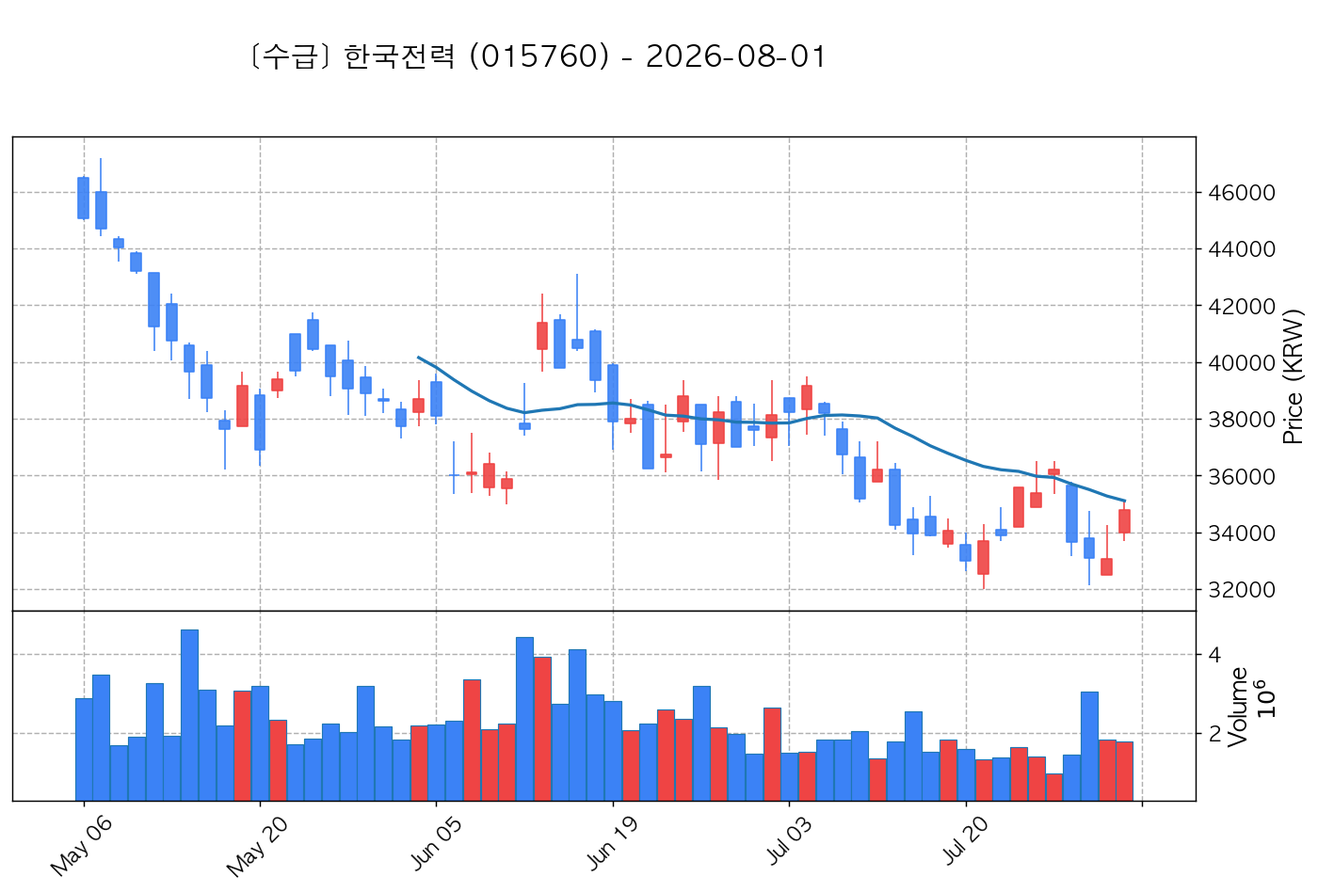
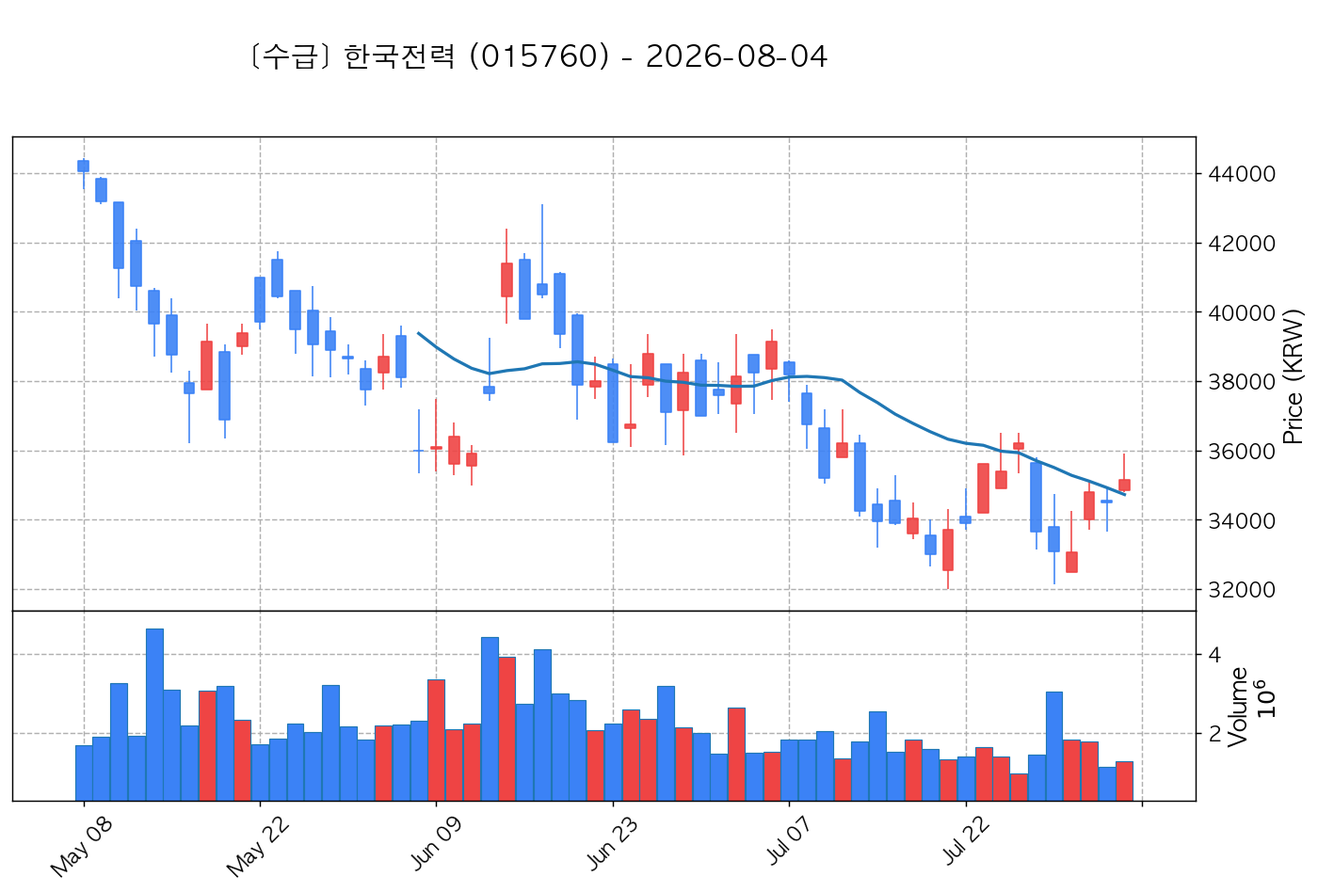
auto: 2026-08-04 스크리닝 보고서 및 차트 업데이트 (안전성 강화)

diff --git a/index.html b/index.html
@@ -591,9 +591,9 @@
     <div style="background: linear-gradient(135deg, #ecfdf5 0%, #f0fdf4 100%); border: 1px solid #a7f3d0; border-radius: 16px; padding: 1.5rem; margin-bottom: 1.5rem; box-shadow: 0 8px 24px rgba(16, 185, 129, 0.06);">
         <div style="display: flex; justify-content: space-between; align-items: center; margin-bottom: 1.2rem; flex-wrap: wrap; gap: 0.5rem;">
             <h3 style="font-size: 1.15rem; font-weight: 700; color: #047857; display: flex; align-items: center; gap: 0.5rem; margin: 0; border: none; padding: 0;">
-                📈 [실전플랜 1] 차일 추천 매매 종목 <span style="font-size: 0.8rem; background: #d1fae5; color: #065f46; padding: 0.25rem 0.75rem; border-radius: 50px; font-weight: 600;">최신 종가 스캔</span>
+                📈 [실전플랜 1] 2026-08-04 (진입예정) 추천 매매 종목 <span style="font-size: 0.8rem; background: #d1fae5; color: #065f46; padding: 0.25rem 0.75rem; border-radius: 50px; font-weight: 600;">2026-08-04 종가 스캔</span>
             </h3>
-            <a href="reports/최신_스크리닝.html" style="text-decoration: none; color: #047857; font-size: 0.85rem; font-weight: 700; display: inline-flex; align-items: center; gap: 0.3rem; background: #ffffff; border: 1px solid #a7f3d0; padding: 0.4rem 0.9rem; border-radius: 8px; box-shadow: 0 2px 6px rgba(16, 185, 129, 0.1); transition: all 0.2s;">
+            <a href="reports/2026-08-04_스크리닝.html" style="text-decoration: none; color: #047857; font-size: 0.85rem; font-weight: 700; display: inline-flex; align-items: center; gap: 0.3rem; background: #ffffff; border: 1px solid #a7f3d0; padding: 0.4rem 0.9rem; border-radius: 8px; box-shadow: 0 2px 6px rgba(16, 185, 129, 0.1); transition: all 0.2s;">
                 전체 스크리닝 리포트 보기 &rarr;
             </a>
         </div>
@@ -606,7 +606,7 @@
                     <span style="color: #d97706; font-size: 0.75rem; font-weight: 700;">TOP 선택</span>
                 </div>
                 <ul style="list-style: none; padding: 0; margin: 0; font-size: 0.85rem; color: #1e293b; display: flex; flex-direction: column; gap: 0.6rem;">
-                    <li style="line-height: 1.4; margin-bottom: 0;">★ <b>[삼성전자]</b> 239,500원 | 3일선 지지</li>
+                    <li style="line-height: 1.4; margin-bottom: 0;">★ <b>[SK하이닉스]</b> 1,577,000원 | 3일선 지지 (사윗감)</li><li style="line-height: 1.4; margin-bottom: 0;">★ <b>[삼성전자]</b> 240,000원 | 3일선 지지</li><li style="line-height: 1.4; margin-bottom: 0;">★ <b>[SK스퀘어]</b> 1,060,000원 | 3일선 지지</li>
                 </ul>
             </div>
 
@@ -617,7 +617,7 @@
                     <span style="color: #d97706; font-size: 0.75rem; font-weight: 700;">TOP 선택</span>
                 </div>
                 <ul style="list-style: none; padding: 0; margin: 0; font-size: 0.85rem; color: #1e293b; display: flex; flex-direction: column; gap: 0.6rem;">
-                    <li style="line-height: 1.4; margin-bottom: 0;">★ <b>[파세코]</b> 7,300원 | 240일선 지지 (이일홍)</li>
+                    <li style="line-height: 1.4; margin-bottom: 0;">★ <b>[NHN]</b> 43,700원 | 5일선 지지 (이일홍)</li><li style="line-height: 1.4; margin-bottom: 0; color:#64748b;">• <b>[티앤엘]</b> 63,500원 | 5일선 지지 (후보)</li><li style="line-height: 1.4; margin-bottom: 0; color:#64748b;">• <b>[코스메카코리아]</b> 86,000원 | 5일선 지지 (후보)</li>
                 </ul>
             </div>
 
@@ -628,7 +628,7 @@
                     <span style="color: #d97706; font-size: 0.75rem; font-weight: 700;">TOP 선택</span>
                 </div>
                 <ul style="list-style: none; padding: 0; margin: 0; font-size: 0.85rem; color: #1e293b; display: flex; flex-direction: column; gap: 0.6rem;">
-                    <li style="line-height: 1.4; margin-bottom: 0;">★ <b>[코오롱티슈진]</b> 14,290원 | 메이저 수급</li>
+                    <li style="line-height: 1.4; margin-bottom: 0;">★ <b>[삼성중공업]</b> 21,650원 | 기관 -96억 / 외인 +586억</li><li style="line-height: 1.4; margin-bottom: 0;">★ <b>[한국전력]</b> 35,150원 | 기관 -544억 / 외인 +1017억</li>
                 </ul>
             </div>
         </div>
@@ -918,7 +918,7 @@
     </footer>
 
     <script>
-        const reportsData = [{"date": "2026-08-05", "type": "장전", "filename": "2026-08-05_장전.md", "html_path": "reports/2026-08-05_장전.html", "summary": ""}, {"date": "2026-08-04", "type": "피드백", "filename": "2026-08-04_피드백.md", "html_path": "reports/2026-08-04_피드백.html", "summary": "실전플랜 1 성과 추적 피드백 리포트"}, {"date": "2026-08-04", "type": "스크리닝", "filename": "2026-08-04_스크리닝.md", "html_path": "reports/2026-08-04_스크리닝.html", "summary": "실전플랜 1 기반 매매 후보 스크리닝 리포트"}, {"date": "2026-08-04", "type": "장후", "filename": "2026-08-04_장후.md", "html_path": "reports/2026-08-04_장후.html", "summary": ""}, {"date": "2026-08-04", "type": "장전", "filename": "2026-08-04_장전.md", "html_path": "reports/2026-08-04_장전.html", "summary": ""}, {"date": "2026-08-03", "type": "당일상한가급등", "filename": "2026-08-03_당일상한가급등.md", "html_path": "reports/2026-08-03_당일상한가급등.html", "summary": "당일 상한가/하한가 및 150억+15%+ 폭등주 분석 카드 리포트"}, {"date": "2026-08-03", "type": "피드백", "filename": "2026-08-03_피드백.md", "html_path": "reports/2026-08-03_피드백.html", "summary": "실전플랜 1 성과 추적 피드백 리포트"}, {"date": "2026-08-03", "type": "스크리닝", "filename": "2026-08-03_스크리닝.md", "html_path": "reports/2026-08-03_스크리닝.html", "summary": "실전플랜 1 기반 매매 후보 스크리닝 리포트"}, {"date": "2026-08-03", "type": "장후", "filename": "2026-08-03_장후.md", "html_path": "reports/2026-08-03_장후.html", "summary": ""}, {"date": "2026-08-03", "type": "장전", "filename": "2026-08-03_장전.md", "html_path": "reports/2026-08-03_장전.html", "summary": ""}, {"date": "2026-08-03", "type": "주말", "filename": "2026-08-03_주말.md", "html_path": "reports/2026-08/2026-08-03_주말.html", "summary": ""}, {"date": "2026-08-02", "type": "위클리브리핑", "filename": "2026-08-02_위클리브리핑.md", "html_path": "reports/2026-08-02_위클리브리핑.html", "summary": "5대 주도 섹터 업황 분석 및 주간 브리핑 리포트"}, {"date": "2026-08-01", "type": "스크리닝", "filename": "2026-08-01_스크리닝.md", "html_path": "reports/2026-08-01_스크리닝.html", "summary": "실전플랜 1 기반 매매 후보 스크리닝 리포트"}, {"date": "2026-07-31", "type": "당일상한가급등", "filename": "2026-07-31_당일상한가급등.md", "html_path": "reports/2026-07-31_당일상한가급등.html", "summary": "당일 상한가/하한가 및 150억+15%+ 폭등주 분석 카드 리포트"}, {"date": "2026-07-31", "type": "피드백", "filename": "2026-07-31_피드백.md", "html_path": "reports/2026-07-31_피드백.html", "summary": "실전플랜 1 성과 추적 피드백 리포트"}, {"date": "2026-07-31", "type": "스크리닝", "filename": "2026-07-31_스크리닝.md", "html_path": "reports/2026-07-31_스크리닝.html", "summary": "실전플랜 1 기반 매매 후보 스크리닝 리포트"}, {"date": "2026-07-31", "type": "장후", "filename": "2026-07-31_장후.md", "html_path": "reports/2026-07-31_장후.html", "summary": ""}, {"date": "2026-07-31", "type": "장전", "filename": "2026-07-31_장전.md", "html_path": "reports/2026-07-31_장전.html", "summary": ""}, {"date": "2026-07-30", "type": "스크리닝", "filename": "2026-07-30_스크리닝.md", "html_path": "reports/2026-07-30_스크리닝.html", "summary": "실전플랜 1 기반 매매 후보 스크리닝 리포트"}, {"date": "2026-07-30", "type": "장후", "filename": "2026-07-30_장후.md", "html_path": "reports/2026-07-30_장후.html", "summary": ""}, {"date": "2026-07-30", "type": "장전", "filename": "2026-07-30_장전.md", "html_path": "reports/2026-07/2026-07-30_장전.html", "summary": ""}, {"date": "2026-07-29", "type": "장후", "filename": "2026-07-29_장후.md", "html_path": "reports/2026-07/2026-07-29_장후.html", "summary": ""}, {"date": "2026-07-29", "type": "장전", "filename": "2026-07-29_장전.md", "html_path": "reports/2026-07/2026-07-29_장전.html", "summary": ""}, {"date": "2026-07-28", "type": "장후", "filename": "2026-07-28_장후.md", "html_path": "reports/2026-07/2026-07-28_장후.html", "summary": ""}, {"date": "2026-07-28", "type": "장전", "filename": "2026-07-28_장전.md", "html_path": "reports/2026-07/2026-07-28_장전.html", "summary": ""}, {"date": "2026-07-27", "type": "장후", "filename": "2026-07-27_장후.md", "html_path": "reports/2026-07/2026-07-27_장후.html", "summary": ""}, {"date": "2026-07-27", "type": "장전", "filename": "2026-07-27_장전.md", "html_path": "reports/2026-07/2026-07-27_장전.html", "summary": ""}, {"date": "2026-07-27", "type": "주말", "filename": "2026-07-27_주말.md", "html_path": "reports/2026-07/2026-07-27_주말.html", "summary": ""}, {"date": "2026-07-24", "type": "장후", "filename": "2026-07-24_장후.md", "html_path": "reports/2026-07/2026-07-24_장후.html", "summary": ""}, {"date": "2026-07-24", "type": "장전", "filename": "2026-07-24_장전.md", "html_path": "reports/2026-07/2026-07-24_장전.html", "summary": ""}, {"date": "2026-07-23", "type": "장후", "filename": "2026-07-23_장후.md", "html_path": "reports/2026-07/2026-07-23_장후.html", "summary": ""}, {"date": "2026-07-23", "type": "장전", "filename": "2026-07-23_장전.md", "html_path": "reports/2026-07/2026-07-23_장전.html", "summary": ""}, {"date": "2026-07-22", "type": "장후", "filename": "2026-07-22_장후.md", "html_path": "reports/2026-07/2026-07-22_장후.html", "summary": ""}, {"date": "2026-07-22", "type": "장전", "filename": "2026-07-22_장전.md", "html_path": "reports/2026-07/2026-07-22_장전.html", "summary": ""}, {"date": "2026-07-21", "type": "장후", "filename": "2026-07-21_장후.md", "html_path": "reports/2026-07/2026-07-21_장후.html", "summary": ""}, {"date": "2026-07-21", "type": "장전", "filename": "2026-07-21_장전.md", "html_path": "reports/2026-07/2026-07-21_장전.html", "summary": ""}, {"date": "2026-07-20", "type": "장후", "filename": "2026-07-20_장후.md", "html_path": "reports/2026-07/2026-07-20_장후.html", "summary": ""}, {"date": "2026-07-20", "type": "장전", "filename": "2026-07-20_장전.md", "html_path": "reports/2026-07/2026-07-20_장전.html", "summary": ""}, {"date": "2026-07-20", "type": "주말", "filename": "2026-07-20_주말.md", "html_path": "reports/2026-07/2026-07-20_주말.html", "summary": ""}, {"date": "2026-07-17", "type": "장후", "filename": "2026-07-17_장후.md", "html_path": "reports/2026-07/2026-07-17_장후.html", "summary": ""}, {"date": "2026-07-17", "type": "장전", "filename": "2026-07-17_장전.md", "html_path": "reports/2026-07/2026-07-17_장전.html", "summary": ""}, {"date": "2026-07-16", "type": "장후", "filename": "2026-07-16_장후.md", "html_path": "reports/2026-07/2026-07-16_장후.html", "summary": ""}, {"date": "2026-07-16", "type": "장전", "filename": "2026-07-16_장전.md", "html_path": "reports/2026-07/2026-07-16_장전.html", "summary": ""}, {"date": "2026-07-15", "type": "장후", "filename": "2026-07-15_장후.md", "html_path": "reports/2026-07/2026-07-15_장후.html", "summary": ""}, {"date": "2026-07-15", "type": "장전", "filename": "2026-07-15_장전.md", "html_path": "reports/2026-07/2026-07-15_장전.html", "summary": ""}, {"date": "2026-07-14", "type": "장후", "filename": "2026-07-14_장후.md", "html_path": "reports/2026-07/2026-07-14_장후.html", "summary": ""}, {"date": "2026-07-14", "type": "장전", "filename": "2026-07-14_장전.md", "html_path": "reports/2026-07/2026-07-14_장전.html", "summary": ""}, {"date": "2026-07-13", "type": "장후", "filename": "2026-07-13_장후.md", "html_path": "reports/2026-07/2026-07-13_장후.html", "summary": ""}, {"date": "2026-07-13", "type": "장전", "filename": "2026-07-13_장전.md", "html_path": "reports/2026-07/2026-07-13_장전.html", "summary": ""}, {"date": "2026-07-13", "type": "주말", "filename": "2026-07-13_주말.md", "html_path": "reports/2026-07/2026-07-13_주말.html", "summary": ""}, {"date": "2026-07-10", "type": "장후", "filename": "2026-07-10_장후.md", "html_path": "reports/2026-07/2026-07-10_장후.html", "summary": ""}, {"date": "2026-07-10", "type": "장전", "filename": "2026-07-10_장전.md", "html_path": "reports/2026-07/2026-07-10_장전.html", "summary": ""}, {"date": "2026-07-09", "type": "장후", "filename": "2026-07-09_장후.md", "html_path": "reports/2026-07/2026-07-09_장후.html", "summary": ""}, {"date": "2026-07-09", "type": "장전", "filename": "2026-07-09_장전.md", "html_path": "reports/2026-07/2026-07-09_장전.html", "summary": ""}, {"date": "2026-07-08", "type": "장후", "filename": "2026-07-08_장후.md", "html_path": "reports/2026-07/2026-07-08_장후.html", "summary": ""}, {"date": "2026-07-08", "type": "장전", "filename": "2026-07-08_장전.md", "html_path": "reports/2026-07/2026-07-08_장전.html", "summary": ""}, {"date": "2026-07-07", "type": "장후", "filename": "2026-07-07_장후.md", "html_path": "reports/2026-07/2026-07-07_장후.html", "summary": ""}, {"date": "2026-07-07", "type": "장전", "filename": "2026-07-07_장전.md", "html_path": "reports/2026-07/2026-07-07_장전.html", "summary": ""}, {"date": "2026-07-06", "type": "장후", "filename": "2026-07-06_장후.md", "html_path": "reports/2026-07/2026-07-06_장후.html", "summary": ""}, {"date": "2026-07-06", "type": "장전", "filename": "2026-07-06_장전.md", "html_path": "reports/2026-07/2026-07-06_장전.html", "summary": ""}, {"date": "2026-07-06", "type": "주말", "filename": "2026-07-06_주말.md", "html_path": "reports/2026-07/2026-07-06_주말.html", "summary": ""}, {"date": "2026-07-03", "type": "장후", "filename": "2026-07-03_장후.md", "html_path": "reports/2026-07/2026-07-03_장후.html", "summary": ""}, {"date": "2026-07-03", "type": "장전", "filename": "2026-07-03_장전.md", "html_path": "reports/2026-07/2026-07-03_장전.html", "summary": ""}, {"date": "2026-07-02", "type": "장후", "filename": "2026-07-02_장후.md", "html_path": "reports/2026-07/2026-07-02_장후.html", "summary": ""}, {"date": "2026-07-02", "type": "장전", "filename": "2026-07-02_장전.md", "html_path": "reports/2026-07/2026-07-02_장전.html", "summary": ""}, {"date": "2026-07-01", "type": "장후", "filename": "2026-07-01_장후.md", "html_path": "reports/2026-07/2026-07-01_장후.html", "summary": ""}, {"date": "2026-07-01", "type": "장전", "filename": "2026-07-01_장전.md", "html_path": "reports/2026-07/2026-07-01_장전.html", "summary": ""}, {"date": "2026-06-30", "type": "장후", "filename": "2026-06-30_장후.md", "html_path": "reports/2026-06/2026-06-30_장후.html", "summary": ""}, {"date": "2026-06-30", "type": "장전", "filename": "2026-06-30_장전.md", "html_path": "reports/2026-06/2026-06-30_장전.html", "summary": ""}, {"date": "2026-06-29", "type": "장후", "filename": "2026-06-29_장후.md", "html_path": "reports/2026-06/2026-06-29_장후.html", "summary": ""}, {"date": "2026-06-29", "type": "장전", "filename": "2026-06-29_장전.md", "html_path": "reports/2026-06/2026-06-29_장전.html", "summary": ""}, {"date": "2026-06-29", "type": "주말", "filename": "2026-06-29_주말.md", "html_path": "reports/2026-06/2026-06-29_주말.html", "summary": ""}, {"date": "2026-06-26", "type": "장후", "filename": "2026-06-26_장후.md", "html_path": "reports/2026-06/2026-06-26_장후.html", "summary": ""}, {"date": "2026-06-26", "type": "장전", "filename": "2026-06-26_장전.md", "html_path": "reports/2026-06/2026-06-26_장전.html", "summary": ""}, {"date": "2026-06-25", "type": "장후", "filename": "2026-06-25_장후.md", "html_path": "reports/2026-06/2026-06-25_장후.html", "summary": ""}, {"date": "2026-06-25", "type": "장전", "filename": "2026-06-25_장전.md", "html_path": "reports/2026-06/2026-06-25_장전.html", "summary": ""}, {"date": "2026-06-24", "type": "장후", "filename": "2026-06-24_장후.md", "html_path": "reports/2026-06/2026-06-24_장후.html", "summary": ""}, {"date": "2026-06-24", "type": "장전", "filename": "2026-06-24_장전.md", "html_path": "reports/2026-06/2026-06-24_장전.html", "summary": ""}, {"date": "2026-06-23", "type": "장후", "filename": "2026-06-23_장후.md", "html_path": "reports/2026-06/2026-06-23_장후.html", "summary": ""}, {"date": "2026-06-23", "type": "장전", "filename": "2026-06-23_장전.md", "html_path": "reports/2026-06/2026-06-23_장전.html", "summary": ""}, {"date": "2026-06-22", "type": "장후", "filename": "2026-06-22_장후.md", "html_path": "reports/2026-06/2026-06-22_장후.html", "summary": ""}, {"date": "2026-06-22", "type": "주말", "filename": "2026-06-22_주말.md", "html_path": "reports/2026-06/2026-06-22_주말.html", "summary": ""}, {"date": "2026-06-19", "type": "장후", "filename": "2026-06-19_장후.md", "html_path": "reports/2026-06/2026-06-19_장후.html", "summary": ""}];
+        const reportsData = [{"date": "2026-08-05", "type": "장전", "filename": "2026-08-05_장전.md", "html_path": "reports/2026-08-05_장전.html", "summary": ""}, {"date": "2026-08-04", "type": "당일상한가급등", "filename": "2026-08-04_당일상한가급등.md", "html_path": "reports/2026-08-04_당일상한가급등.html", "summary": "당일 상한가/하한가 및 150억+15%+ 폭등주 분석 카드 리포트"}, {"date": "2026-08-04", "type": "피드백", "filename": "2026-08-04_피드백.md", "html_path": "reports/2026-08-04_피드백.html", "summary": "실전플랜 1 성과 추적 피드백 리포트"}, {"date": "2026-08-04", "type": "스크리닝", "filename": "2026-08-04_스크리닝.md", "html_path": "reports/2026-08-04_스크리닝.html", "summary": "실전플랜 1 기반 매매 후보 스크리닝 리포트"}, {"date": "2026-08-04", "type": "장후", "filename": "2026-08-04_장후.md", "html_path": "reports/2026-08-04_장후.html", "summary": ""}, {"date": "2026-08-04", "type": "장전", "filename": "2026-08-04_장전.md", "html_path": "reports/2026-08-04_장전.html", "summary": ""}, {"date": "2026-08-03", "type": "당일상한가급등", "filename": "2026-08-03_당일상한가급등.md", "html_path": "reports/2026-08-03_당일상한가급등.html", "summary": "당일 상한가/하한가 및 150억+15%+ 폭등주 분석 카드 리포트"}, {"date": "2026-08-03", "type": "피드백", "filename": "2026-08-03_피드백.md", "html_path": "reports/2026-08-03_피드백.html", "summary": "실전플랜 1 성과 추적 피드백 리포트"}, {"date": "2026-08-03", "type": "스크리닝", "filename": "2026-08-03_스크리닝.md", "html_path": "reports/2026-08-03_스크리닝.html", "summary": "실전플랜 1 기반 매매 후보 스크리닝 리포트"}, {"date": "2026-08-03", "type": "장후", "filename": "2026-08-03_장후.md", "html_path": "reports/2026-08-03_장후.html", "summary": ""}, {"date": "2026-08-03", "type": "장전", "filename": "2026-08-03_장전.md", "html_path": "reports/2026-08-03_장전.html", "summary": ""}, {"date": "2026-08-03", "type": "주말", "filename": "2026-08-03_주말.md", "html_path": "reports/2026-08/2026-08-03_주말.html", "summary": ""}, {"date": "2026-08-02", "type": "위클리브리핑", "filename": "2026-08-02_위클리브리핑.md", "html_path": "reports/2026-08-02_위클리브리핑.html", "summary": "5대 주도 섹터 업황 분석 및 주간 브리핑 리포트"}, {"date": "2026-08-01", "type": "스크리닝", "filename": "2026-08-01_스크리닝.md", "html_path": "reports/2026-08-01_스크리닝.html", "summary": "실전플랜 1 기반 매매 후보 스크리닝 리포트"}, {"date": "2026-07-31", "type": "당일상한가급등", "filename": "2026-07-31_당일상한가급등.md", "html_path": "reports/2026-07-31_당일상한가급등.html", "summary": "당일 상한가/하한가 및 150억+15%+ 폭등주 분석 카드 리포트"}, {"date": "2026-07-31", "type": "피드백", "filename": "2026-07-31_피드백.md", "html_path": "reports/2026-07-31_피드백.html", "summary": "실전플랜 1 성과 추적 피드백 리포트"}, {"date": "2026-07-31", "type": "스크리닝", "filename": "2026-07-31_스크리닝.md", "html_path": "reports/2026-07-31_스크리닝.html", "summary": "실전플랜 1 기반 매매 후보 스크리닝 리포트"}, {"date": "2026-07-31", "type": "장후", "filename": "2026-07-31_장후.md", "html_path": "reports/2026-07-31_장후.html", "summary": ""}, {"date": "2026-07-31", "type": "장전", "filename": "2026-07-31_장전.md", "html_path": "reports/2026-07-31_장전.html", "summary": ""}, {"date": "2026-07-30", "type": "스크리닝", "filename": "2026-07-30_스크리닝.md", "html_path": "reports/2026-07-30_스크리닝.html", "summary": "실전플랜 1 기반 매매 후보 스크리닝 리포트"}, {"date": "2026-07-30", "type": "장후", "filename": "2026-07-30_장후.md", "html_path": "reports/2026-07-30_장후.html", "summary": ""}, {"date": "2026-07-30", "type": "장전", "filename": "2026-07-30_장전.md", "html_path": "reports/2026-07/2026-07-30_장전.html", "summary": ""}, {"date": "2026-07-29", "type": "장후", "filename": "2026-07-29_장후.md", "html_path": "reports/2026-07/2026-07-29_장후.html", "summary": ""}, {"date": "2026-07-29", "type": "장전", "filename": "2026-07-29_장전.md", "html_path": "reports/2026-07/2026-07-29_장전.html", "summary": ""}, {"date": "2026-07-28", "type": "장후", "filename": "2026-07-28_장후.md", "html_path": "reports/2026-07/2026-07-28_장후.html", "summary": ""}, {"date": "2026-07-28", "type": "장전", "filename": "2026-07-28_장전.md", "html_path": "reports/2026-07/2026-07-28_장전.html", "summary": ""}, {"date": "2026-07-27", "type": "장후", "filename": "2026-07-27_장후.md", "html_path": "reports/2026-07/2026-07-27_장후.html", "summary": ""}, {"date": "2026-07-27", "type": "장전", "filename": "2026-07-27_장전.md", "html_path": "reports/2026-07/2026-07-27_장전.html", "summary": ""}, {"date": "2026-07-27", "type": "주말", "filename": "2026-07-27_주말.md", "html_path": "reports/2026-07/2026-07-27_주말.html", "summary": ""}, {"date": "2026-07-24", "type": "장후", "filename": "2026-07-24_장후.md", "html_path": "reports/2026-07/2026-07-24_장후.html", "summary": ""}, {"date": "2026-07-24", "type": "장전", "filename": "2026-07-24_장전.md", "html_path": "reports/2026-07/2026-07-24_장전.html", "summary": ""}, {"date": "2026-07-23", "type": "장후", "filename": "2026-07-23_장후.md", "html_path": "reports/2026-07/2026-07-23_장후.html", "summary": ""}, {"date": "2026-07-23", "type": "장전", "filename": "2026-07-23_장전.md", "html_path": "reports/2026-07/2026-07-23_장전.html", "summary": ""}, {"date": "2026-07-22", "type": "장후", "filename": "2026-07-22_장후.md", "html_path": "reports/2026-07/2026-07-22_장후.html", "summary": ""}, {"date": "2026-07-22", "type": "장전", "filename": "2026-07-22_장전.md", "html_path": "reports/2026-07/2026-07-22_장전.html", "summary": ""}, {"date": "2026-07-21", "type": "장후", "filename": "2026-07-21_장후.md", "html_path": "reports/2026-07/2026-07-21_장후.html", "summary": ""}, {"date": "2026-07-21", "type": "장전", "filename": "2026-07-21_장전.md", "html_path": "reports/2026-07/2026-07-21_장전.html", "summary": ""}, {"date": "2026-07-20", "type": "장후", "filename": "2026-07-20_장후.md", "html_path": "reports/2026-07/2026-07-20_장후.html", "summary": ""}, {"date": "2026-07-20", "type": "장전", "filename": "2026-07-20_장전.md", "html_path": "reports/2026-07/2026-07-20_장전.html", "summary": ""}, {"date": "2026-07-20", "type": "주말", "filename": "2026-07-20_주말.md", "html_path": "reports/2026-07/2026-07-20_주말.html", "summary": ""}, {"date": "2026-07-17", "type": "장후", "filename": "2026-07-17_장후.md", "html_path": "reports/2026-07/2026-07-17_장후.html", "summary": ""}, {"date": "2026-07-17", "type": "장전", "filename": "2026-07-17_장전.md", "html_path": "reports/2026-07/2026-07-17_장전.html", "summary": ""}, {"date": "2026-07-16", "type": "장후", "filename": "2026-07-16_장후.md", "html_path": "reports/2026-07/2026-07-16_장후.html", "summary": ""}, {"date": "2026-07-16", "type": "장전", "filename": "2026-07-16_장전.md", "html_path": "reports/2026-07/2026-07-16_장전.html", "summary": ""}, {"date": "2026-07-15", "type": "장후", "filename": "2026-07-15_장후.md", "html_path": "reports/2026-07/2026-07-15_장후.html", "summary": ""}, {"date": "2026-07-15", "type": "장전", "filename": "2026-07-15_장전.md", "html_path": "reports/2026-07/2026-07-15_장전.html", "summary": ""}, {"date": "2026-07-14", "type": "장후", "filename": "2026-07-14_장후.md", "html_path": "reports/2026-07/2026-07-14_장후.html", "summary": ""}, {"date": "2026-07-14", "type": "장전", "filename": "2026-07-14_장전.md", "html_path": "reports/2026-07/2026-07-14_장전.html", "summary": ""}, {"date": "2026-07-13", "type": "장후", "filename": "2026-07-13_장후.md", "html_path": "reports/2026-07/2026-07-13_장후.html", "summary": ""}, {"date": "2026-07-13", "type": "장전", "filename": "2026-07-13_장전.md", "html_path": "reports/2026-07/2026-07-13_장전.html", "summary": ""}, {"date": "2026-07-13", "type": "주말", "filename": "2026-07-13_주말.md", "html_path": "reports/2026-07/2026-07-13_주말.html", "summary": ""}, {"date": "2026-07-10", "type": "장후", "filename": "2026-07-10_장후.md", "html_path": "reports/2026-07/2026-07-10_장후.html", "summary": ""}, {"date": "2026-07-10", "type": "장전", "filename": "2026-07-10_장전.md", "html_path": "reports/2026-07/2026-07-10_장전.html", "summary": ""}, {"date": "2026-07-09", "type": "장후", "filename": "2026-07-09_장후.md", "html_path": "reports/2026-07/2026-07-09_장후.html", "summary": ""}, {"date": "2026-07-09", "type": "장전", "filename": "2026-07-09_장전.md", "html_path": "reports/2026-07/2026-07-09_장전.html", "summary": ""}, {"date": "2026-07-08", "type": "장후", "filename": "2026-07-08_장후.md", "html_path": "reports/2026-07/2026-07-08_장후.html", "summary": ""}, {"date": "2026-07-08", "type": "장전", "filename": "2026-07-08_장전.md", "html_path": "reports/2026-07/2026-07-08_장전.html", "summary": ""}, {"date": "2026-07-07", "type": "장후", "filename": "2026-07-07_장후.md", "html_path": "reports/2026-07/2026-07-07_장후.html", "summary": ""}, {"date": "2026-07-07", "type": "장전", "filename": "2026-07-07_장전.md", "html_path": "reports/2026-07/2026-07-07_장전.html", "summary": ""}, {"date": "2026-07-06", "type": "장후", "filename": "2026-07-06_장후.md", "html_path": "reports/2026-07/2026-07-06_장후.html", "summary": ""}, {"date": "2026-07-06", "type": "장전", "filename": "2026-07-06_장전.md", "html_path": "reports/2026-07/2026-07-06_장전.html", "summary": ""}, {"date": "2026-07-06", "type": "주말", "filename": "2026-07-06_주말.md", "html_path": "reports/2026-07/2026-07-06_주말.html", "summary": ""}, {"date": "2026-07-03", "type": "장후", "filename": "2026-07-03_장후.md", "html_path": "reports/2026-07/2026-07-03_장후.html", "summary": ""}, {"date": "2026-07-03", "type": "장전", "filename": "2026-07-03_장전.md", "html_path": "reports/2026-07/2026-07-03_장전.html", "summary": ""}, {"date": "2026-07-02", "type": "장후", "filename": "2026-07-02_장후.md", "html_path": "reports/2026-07/2026-07-02_장후.html", "summary": ""}, {"date": "2026-07-02", "type": "장전", "filename": "2026-07-02_장전.md", "html_path": "reports/2026-07/2026-07-02_장전.html", "summary": ""}, {"date": "2026-07-01", "type": "장후", "filename": "2026-07-01_장후.md", "html_path": "reports/2026-07/2026-07-01_장후.html", "summary": ""}, {"date": "2026-07-01", "type": "장전", "filename": "2026-07-01_장전.md", "html_path": "reports/2026-07/2026-07-01_장전.html", "summary": ""}, {"date": "2026-06-30", "type": "장후", "filename": "2026-06-30_장후.md", "html_path": "reports/2026-06/2026-06-30_장후.html", "summary": ""}, {"date": "2026-06-30", "type": "장전", "filename": "2026-06-30_장전.md", "html_path": "reports/2026-06/2026-06-30_장전.html", "summary": ""}, {"date": "2026-06-29", "type": "장후", "filename": "2026-06-29_장후.md", "html_path": "reports/2026-06/2026-06-29_장후.html", "summary": ""}, {"date": "2026-06-29", "type": "장전", "filename": "2026-06-29_장전.md", "html_path": "reports/2026-06/2026-06-29_장전.html", "summary": ""}, {"date": "2026-06-29", "type": "주말", "filename": "2026-06-29_주말.md", "html_path": "reports/2026-06/2026-06-29_주말.html", "summary": ""}, {"date": "2026-06-26", "type": "장후", "filename": "2026-06-26_장후.md", "html_path": "reports/2026-06/2026-06-26_장후.html", "summary": ""}, {"date": "2026-06-26", "type": "장전", "filename": "2026-06-26_장전.md", "html_path": "reports/2026-06/2026-06-26_장전.html", "summary": ""}, {"date": "2026-06-25", "type": "장후", "filename": "2026-06-25_장후.md", "html_path": "reports/2026-06/2026-06-25_장후.html", "summary": ""}, {"date": "2026-06-25", "type": "장전", "filename": "2026-06-25_장전.md", "html_path": "reports/2026-06/2026-06-25_장전.html", "summary": ""}, {"date": "2026-06-24", "type": "장후", "filename": "2026-06-24_장후.md", "html_path": "reports/2026-06/2026-06-24_장후.html", "summary": ""}, {"date": "2026-06-24", "type": "장전", "filename": "2026-06-24_장전.md", "html_path": "reports/2026-06/2026-06-24_장전.html", "summary": ""}, {"date": "2026-06-23", "type": "장후", "filename": "2026-06-23_장후.md", "html_path": "reports/2026-06/2026-06-23_장후.html", "summary": ""}, {"date": "2026-06-23", "type": "장전", "filename": "2026-06-23_장전.md", "html_path": "reports/2026-06/2026-06-23_장전.html", "summary": ""}, {"date": "2026-06-22", "type": "장후", "filename": "2026-06-22_장후.md", "html_path": "reports/2026-06/2026-06-22_장후.html", "summary": ""}, {"date": "2026-06-22", "type": "주말", "filename": "2026-06-22_주말.md", "html_path": "reports/2026-06/2026-06-22_주말.html", "summary": ""}, {"date": "2026-06-19", "type": "장후", "filename": "2026-06-19_장후.md", "html_path": "reports/2026-06/2026-06-19_장후.html", "summary": ""}];
         const tickerData = [{"badge": "매크로/정책", "date": "2026-08-05", "text": "[대한민국정부] 「(해양수산부)자연재난 복구비용 산정기준(단가) 고시」 개정"}, {"badge": "기업공시", "date": "2026-08-05", "text": "[권리락] [알테오젠] 무상증자 권리락 (정정)"}, {"badge": "공모/상장", "date": "2026-08-05", "text": "[공모청약] 빅웨이브로보틱스"}, {"badge": "VIP모멘텀", "date": "2026-08-02", "text": "[IT·신기술] 인도네시아 등 신흥국 주도의 한반도 평화 및 지역 안보 협력 모색 (6월 중순 이후, 주요국 정상회담 전후)", "link": "https://www.google.com/url?rct=j&sa=t&url=https://www.ajunews.com/amp/20260801193014716&ct=ga&cd=CAIyHGIwMWZkOWYxZTVlNDMzZjQ6Y28ua3I6a286S1I&usg=AOvVaw2Vy5XEd2KB39ajPu9APd93"}];
         
         let currentFilter = 'all';

diff --git a/reports/2026-08-04_스크리닝.html b/reports/2026-08-04_스크리닝.html
@@ -64,15 +64,15 @@ footer { text-align: center; padding: 3rem 1.5rem; color: var(--muted); font-siz
   <div class="badge-main">실전플랜 1 · 매매전 스크리닝</div>
   <h1>📈 2026-08-04 매매 후보 스크리닝</h1>
   <p class="subtitle">2026-08-04 종가 기준 500개 전수 스캔 및 심층 분석 차트 보고서</p>
-  <p class="meta-info">포착 기준일: 2026-08-04 | 매매 추적일: 2026-08-04 (진입예정) | 생성: 2026-08-05 05:51</p>
+  <p class="meta-info">포착 기준일: 2026-08-04 | 매매 추적일: 2026-08-04 (진입예정) | 생성: 2026-08-05 05:53</p>
   <div><a href="2026-08-04_피드백.html" style="display:inline-flex; align-items:center; gap:0.4rem; background:rgba(16, 185, 129, 0.2); border:1px solid rgba(16, 185, 129, 0.4); color:#34d399; text-decoration:none; padding:0.4rem 1rem; border-radius:50px; font-size:0.85rem; font-weight:700; margin-top:0.8rem;">📊 익일 매매 성과 피드백 보고서 보기 &rarr;</a></div>
 </header>
 
 <container>
 
   <div class="stats-grid">
-    <div class="stat-card"><div class="stat-num" style="color: #a5b4fc">36</div><div class="stat-label">전체 포착 종목</div></div>
-    <div class="stat-card"><div class="stat-num" style="color: #fbbf24">5</div><div class="stat-label">★ TOP 정예 종목</div></div>
+    <div class="stat-card"><div class="stat-num" style="color: #a5b4fc">37</div><div class="stat-label">전체 포착 종목</div></div>
+    <div class="stat-card"><div class="stat-num" style="color: #fbbf24">6</div><div class="stat-label">★ TOP 정예 종목</div></div>
     <div class="stat-card"><div class="stat-num" style="color: #34d399">39%</div><div class="stat-label">총 포지션 비중</div></div>
     <div class="stat-card"><div class="stat-num" style="color: #f472b6">2026-08-04</div><div class="stat-label">매매 추적일</div></div>
   </div>
@@ -610,7 +610,7 @@ footer { text-align: center; padding: 3rem 1.5rem; color: var(--muted); font-siz
   <div class="section">
     <div class="section-header">
       <span class="section-title">🟢 전략 3 &mdash; 수급 낙폭과대 바닥형</span>
-      <span style="font-size:0.9rem; color:var(--muted)">총 1개 포착 (상위 1개 표시)</span>
+      <span style="font-size:0.9rem; color:var(--muted)">총 2개 포착 (상위 2개 표시)</span>
     </div>
     <div class="stock-grid">
 
@@ -648,13 +648,47 @@ footer { text-align: center; padding: 3rem 1.5rem; color: var(--muted); font-siz
         </div>
       </div>
 
+      <div class="stock-card top-choice">
+        <div class="stock-header">
+          <div class="stock-name-box">
+            <span class="stock-name">한국전력</span>
+            <span class="stock-code">015760</span>
+            <span class="tag-badge tag-top1">★ TOP 2 선택</span>
+          </div>
+          <div style="font-weight:700; color:#fbbf24; font-size:1.1rem">35,150원 (448억)</div>
+        </div>
+        <div class="stock-body">
+          <div class="chart-container">
+            <img src="charts/chart_015760_한국전력.png" alt="한국전력 차트" class="chart-img">
+          </div>
+          <div class="info-panel">
+            
+            <div class="metrics-row">
+              <div class="metric-box"><div class="metric-val">35,150원</div><div class="metric-lbl">기준 종가</div></div>
+              <div class="metric-box"><div class="metric-val" style="color:#ef4444">448억</div><div class="metric-lbl">거래대금</div></div>
+              <div class="metric-box"><div class="metric-val">+0.00%</div><div class="metric-lbl">당일 등락률</div></div>
+            </div>
+            
+            <div class="strategy-setup">
+              <div class="setup-row"><span>🎯 목표 익절가</span><strong style="color:#34d399">36,204원 (+3%)</strong></div>
+              <div class="setup-row"><span>📍 매수 대기선</span><strong>35,150원 부근</strong></div>
+              <div class="setup-row"><span>🛑 손절가</span><span>34,025원 (-3%)</span></div>
+            </div>
+
+            <div class="opinion-box">
+              <strong>💡 분석 의견 & 복기:</strong><br>52주 고점 대비 (50.6%) ➔ 20일 메이저 수급 100억+ 유입 ➔ 없음 지지 안착
+            </div>
+          </div>
+        </div>
+      </div>
+
     </div>
   </div>
 
 </container>
 
 <footer>
-  실전플랜 1 · 매매전 스크리닝 · 생성일시: 2026-08-05 05:51 · 리포트 시스템
+  실전플랜 1 · 매매전 스크리닝 · 생성일시: 2026-08-05 05:53 · 리포트 시스템
 </footer>
 
 </body>

diff --git a/reports/2026-08-04_스크리닝.md b/reports/2026-08-04_스크리닝.md
@@ -10,8 +10,8 @@
 | :--- | :--- | :---: |
 | **전략 1** | 양음양 눌림목 & 사윗감 | 30개 (TOP 3개) |
 | **전략 2** | 매집봉 & 이일홍 | 5개 (TOP 1개) |
-| **전략 3** | 수급 & 핥 | 1개 (TOP 1개) |
-| **합계** | **3대 핵심 전략 통합** | **36개 (TOP 5개)** |
+| **전략 3** | 수급 & 핥 | 2개 (TOP 2개) |
+| **합계** | **3대 핵심 전략 통합** | **37개 (TOP 6개)** |
 
 ---
 
@@ -144,11 +144,12 @@
 
 ## 🟢 5. 전략 3 — 수급 낙폭과대 바닥형 (10% × 2슬롯)
 
-### 📋 전략 3 요약표 (상위 1개)
+### 📋 전략 3 요약표 (상위 2개)
 
 | 종목명 | 기준일종가 | 기준봉 | 지지선 | 비고 및 선정 상태 |
 | :--- | ---: | :--- | :---: | :--- |
 | **삼성중공업** (010140) | 21,650원 | 52주 고점 대비 (61.2%) ➔ 20일 메이저 수급 100억+ 유입 ➔ 없음 지지 안착 | 수급선 | **★ TOP 1 선택** |
+| **한국전력** (015760) | 35,150원 | 52주 고점 대비 (50.6%) ➔ 20일 메이저 수급 100억+ 유입 ➔ 없음 지지 안착 | 수급선 | **★ TOP 2 선택** |
 
 ---
 
@@ -159,4 +160,10 @@
 
 - **기준 종가**: 21,650원 | **거래대금**: 770억
 - **분석 사유**: 52주 고점 대비 (61.2%) ➔ 20일 메이저 수급 100억+ 유입 ➔ 없음 지지 안착
+
+#### 2) 한국전력 (015760) — ★ TOP 2 선택
+<p align="center"><img src="charts/chart_015760_한국전력.png" width="65%" alt="한국전력 차트"/></p>
+
+- **기준 종가**: 35,150원 | **거래대금**: 448억
+- **분석 사유**: 52주 고점 대비 (50.6%) ➔ 20일 메이저 수급 100억+ 유입 ➔ 없음 지지 안착
 
